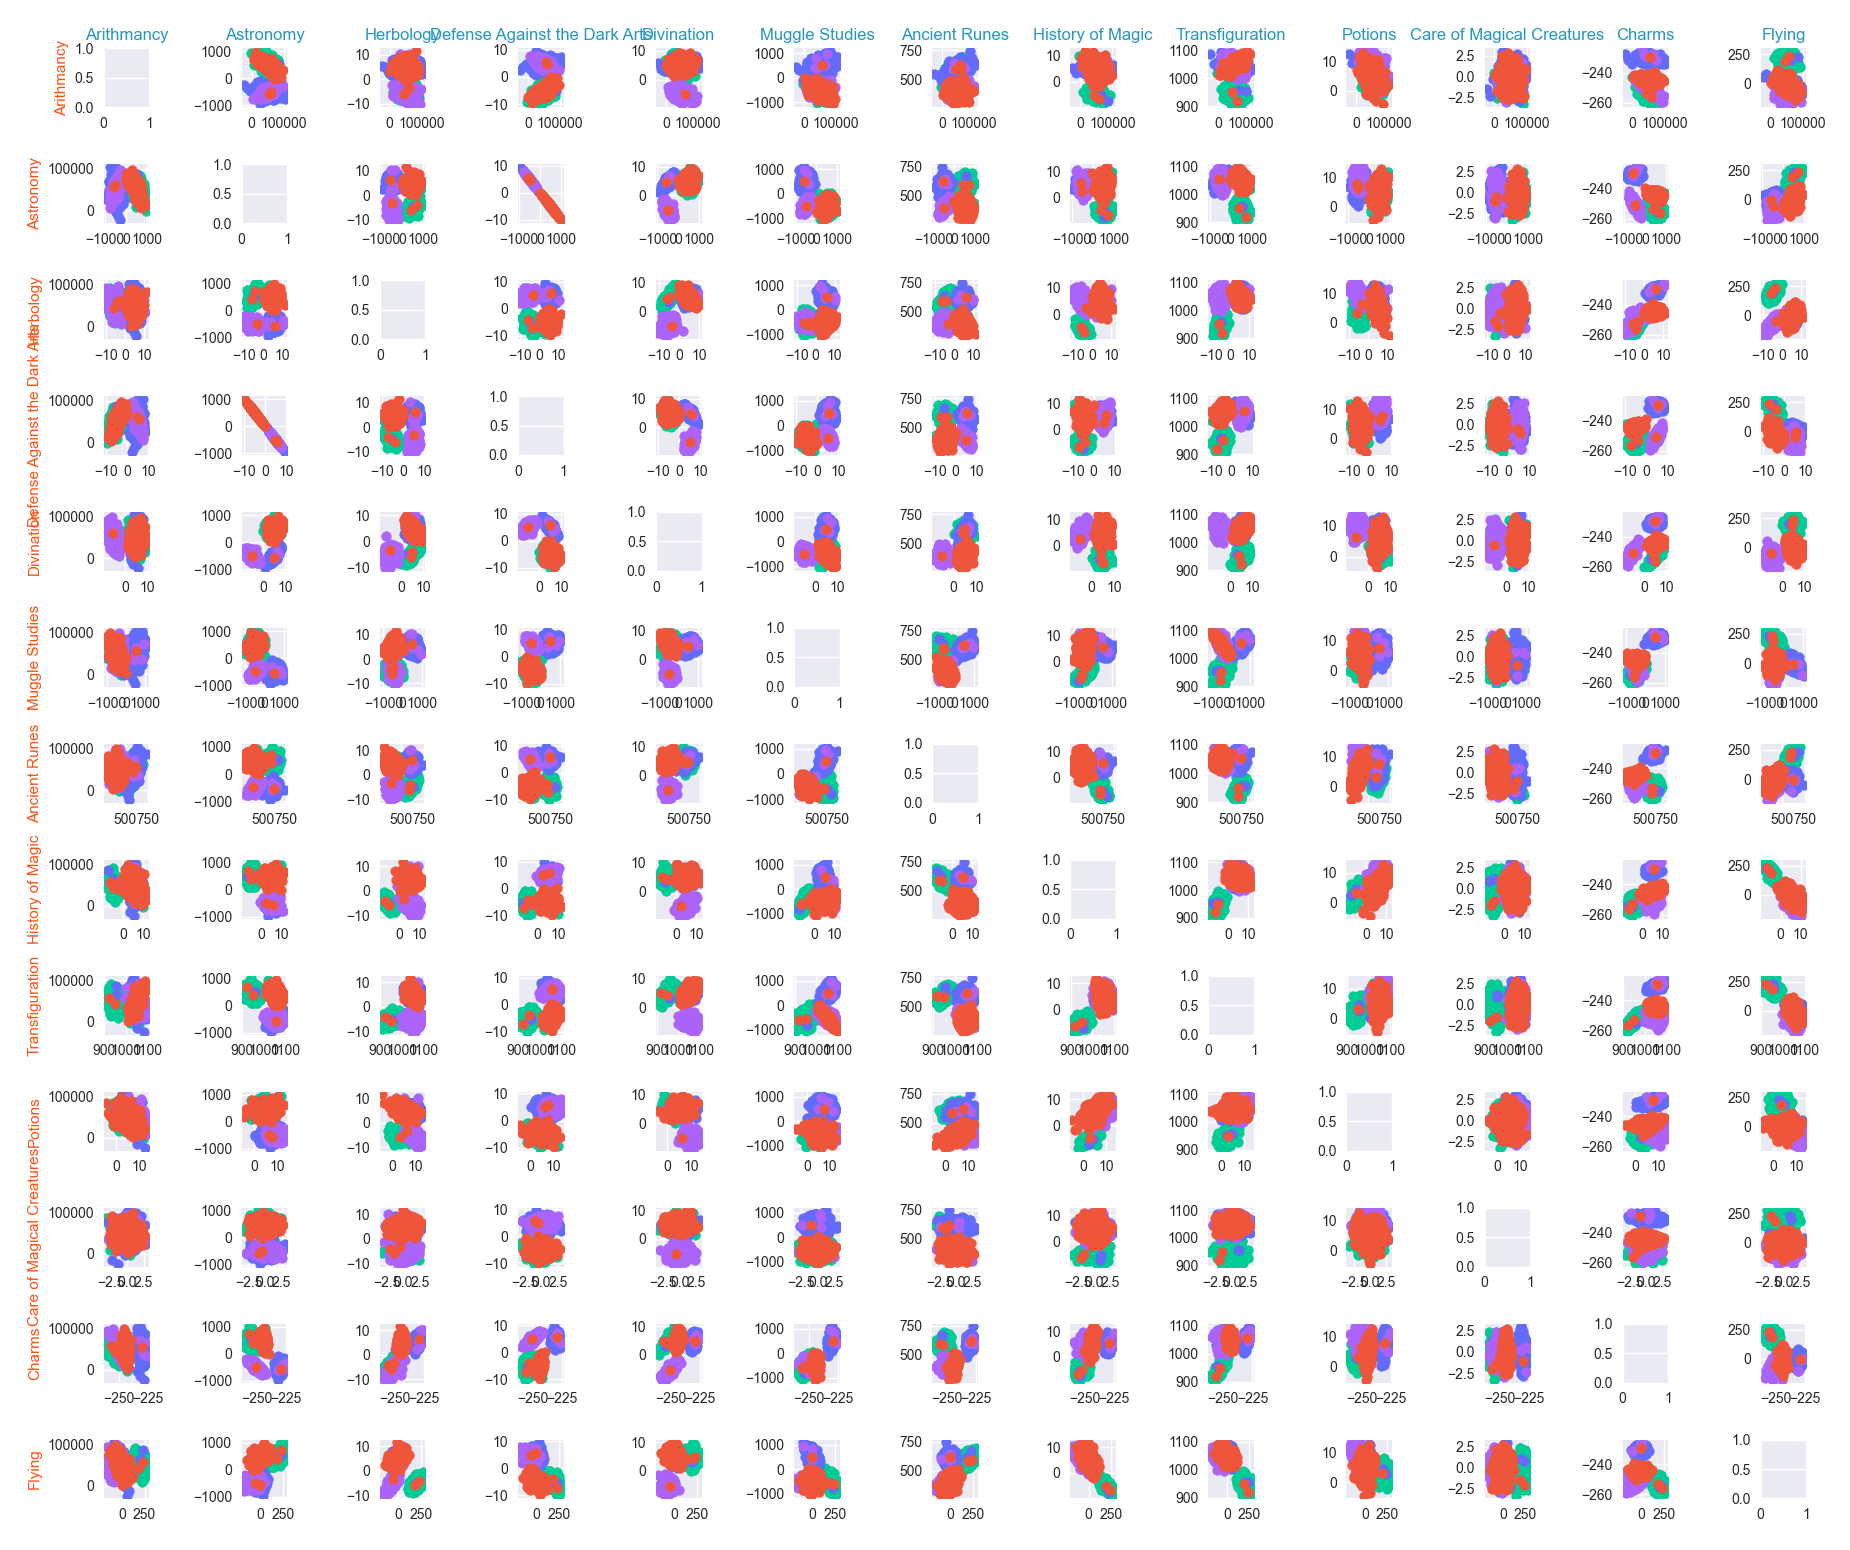
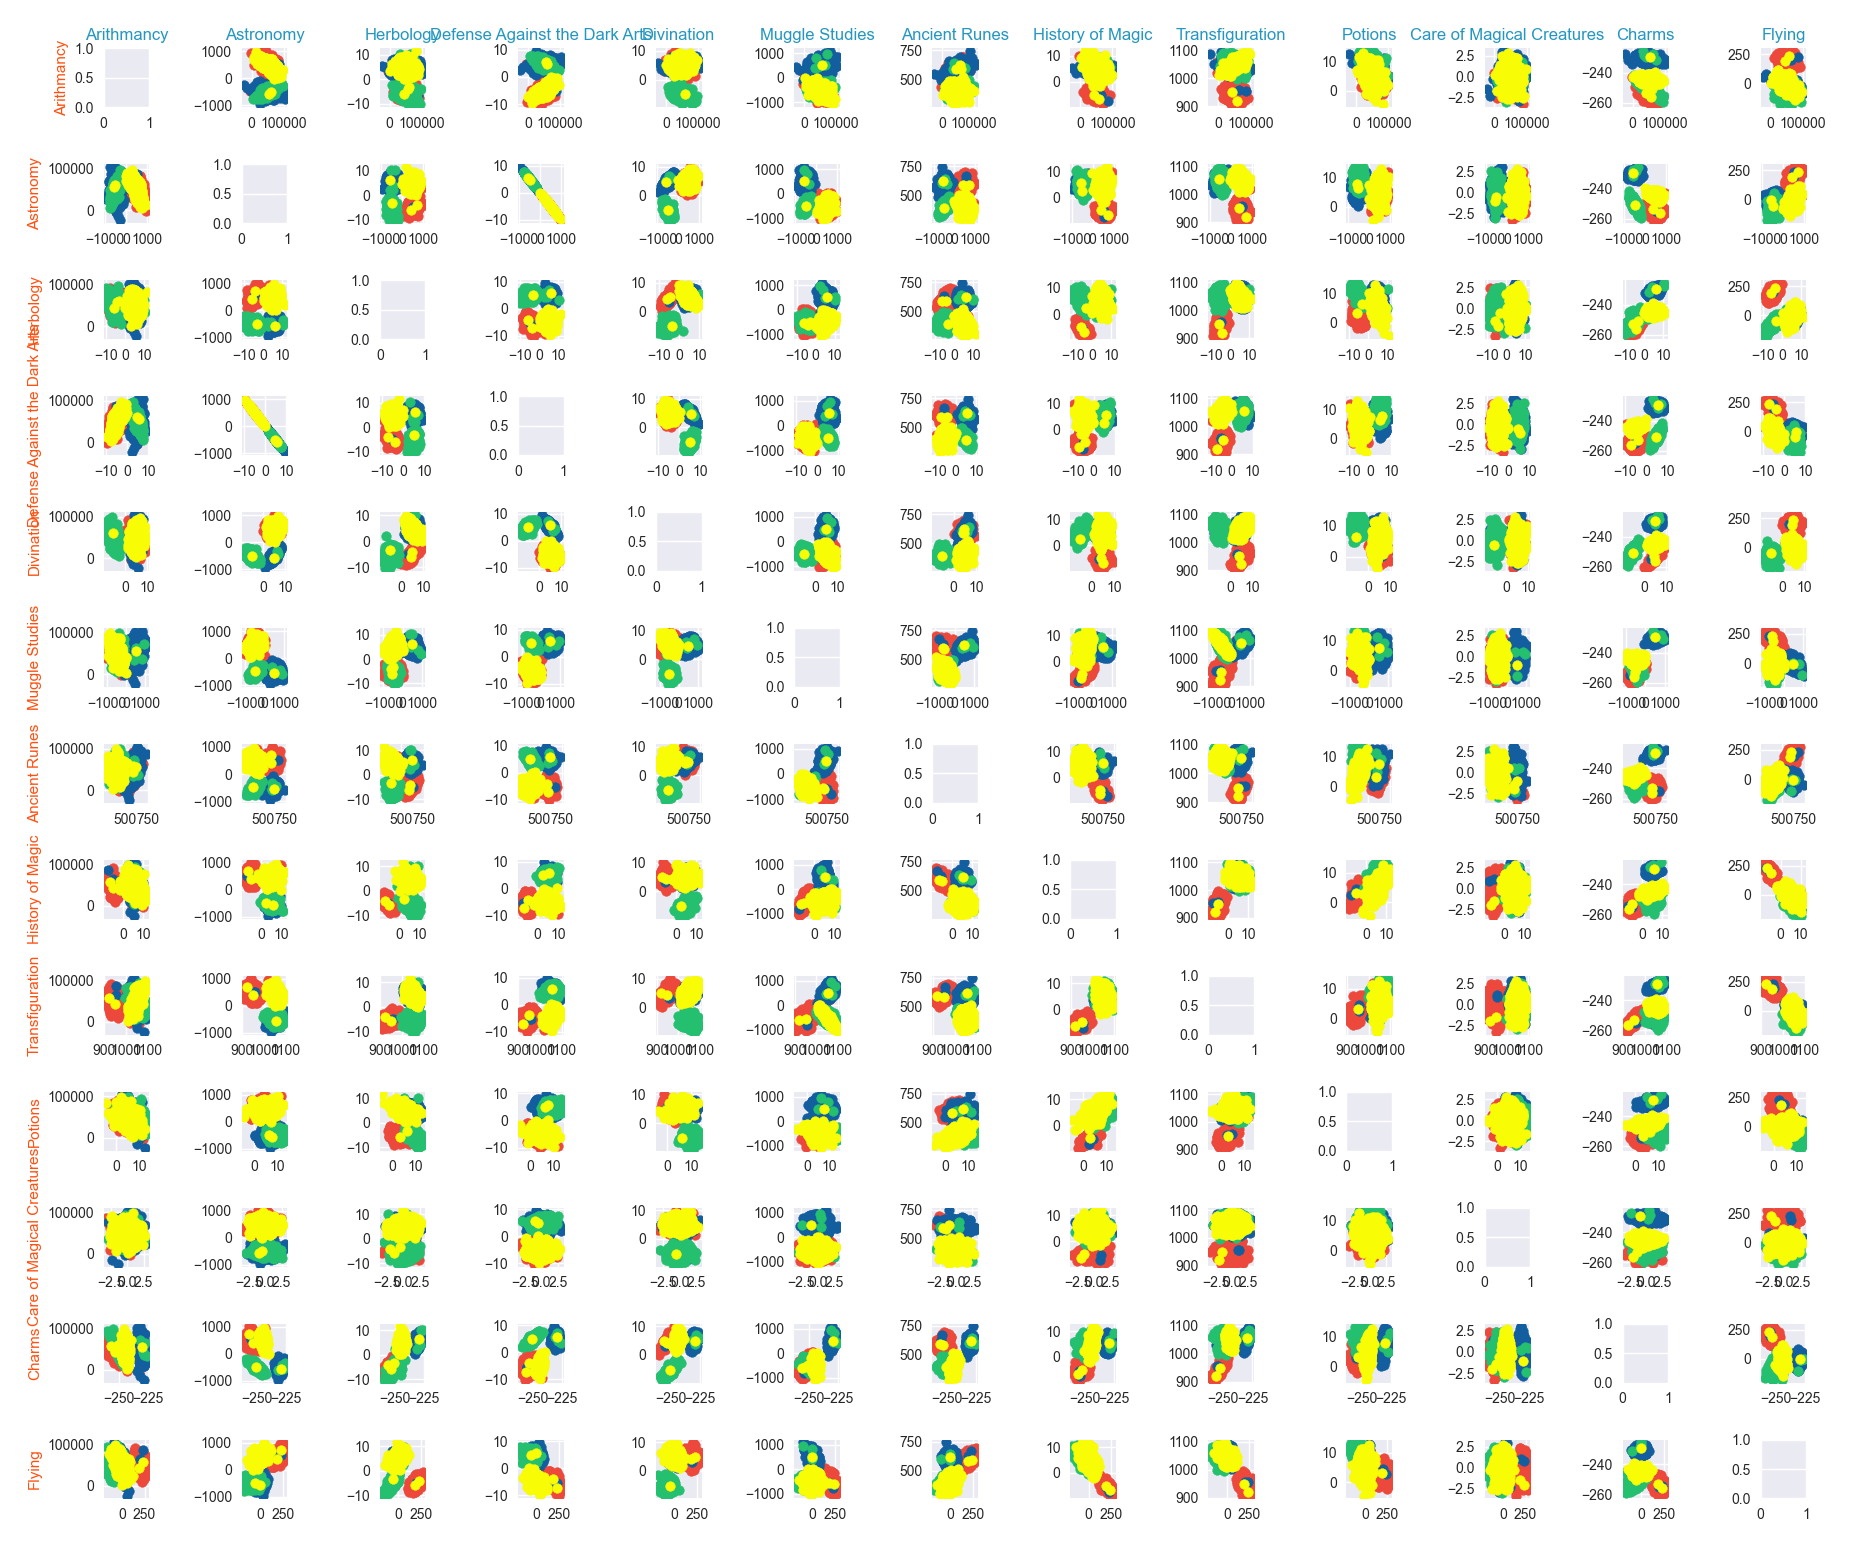
change color

diff --git a/scatter_plot.py b/scatter_plot.py
@@ -14,10 +14,10 @@ def draw():
 	if (k == 0):
 		ax.set_title(title[j], color='#2497C0')
 	if (j != i):
-		ax.scatter(g[title[i]], g[title[j]], color='#00cc96')
-		ax.scatter(r[title[i]], r[title[j]], color='#636bfa')
-		ax.scatter(s[title[i]], s[title[j]], color='#ac63fa')
-		ax.scatter(h[title[i]], h[title[j]], color='#ef553b')
+		ax.scatter(g[title[i]], g[title[j]], color='#EC493C', label="Gryffindor")
+		ax.scatter(r[title[i]], r[title[j]], color='#125E9F', label="Ravenclaw")
+		ax.scatter(s[title[i]], s[title[j]], color='#24C070', label="Slytherin")
+		ax.scatter(h[title[i]], h[title[j]], color='#F8FC05', label="Hufflepuff")
 
 def get_size_to_draw():
 	ncol = size
@@ -60,9 +60,9 @@ if __name__ == '__main__':
 	plt.show()
 	plt.ylabel('Defense Against the Dark Arts', color='#ff5010')
 	plt.xlabel('Astronomy', color='#2497C0')
-	plt.scatter(g['Astronomy'], g['Defense Against the Dark Arts'], color='#00cc96')
-	plt.scatter(r['Astronomy'], r['Defense Against the Dark Arts'], color='#636bfa')
-	plt.scatter(s['Astronomy'], s['Defense Against the Dark Arts'], color='#ac63fa')
-	plt.scatter(h['Astronomy'], h['Defense Against the Dark Arts'], color='#ef553b')
+	plt.scatter(g['Astronomy'], g['Defense Against the Dark Arts'], color='#EC493C', label="Gryffindor")
+	plt.scatter(r['Astronomy'], r['Defense Against the Dark Arts'], color='#125E9F', label="Ravenclaw")
+	plt.scatter(s['Astronomy'], s['Defense Against the Dark Arts'], color='#24C070', label="Slytherin")
+	plt.scatter(h['Astronomy'], h['Defense Against the Dark Arts'], color='#F8FC05', label="Hufflepuff")
 	plt.savefig('img/result_scatter_plot.png', dpi=100)
 	plt.show()
